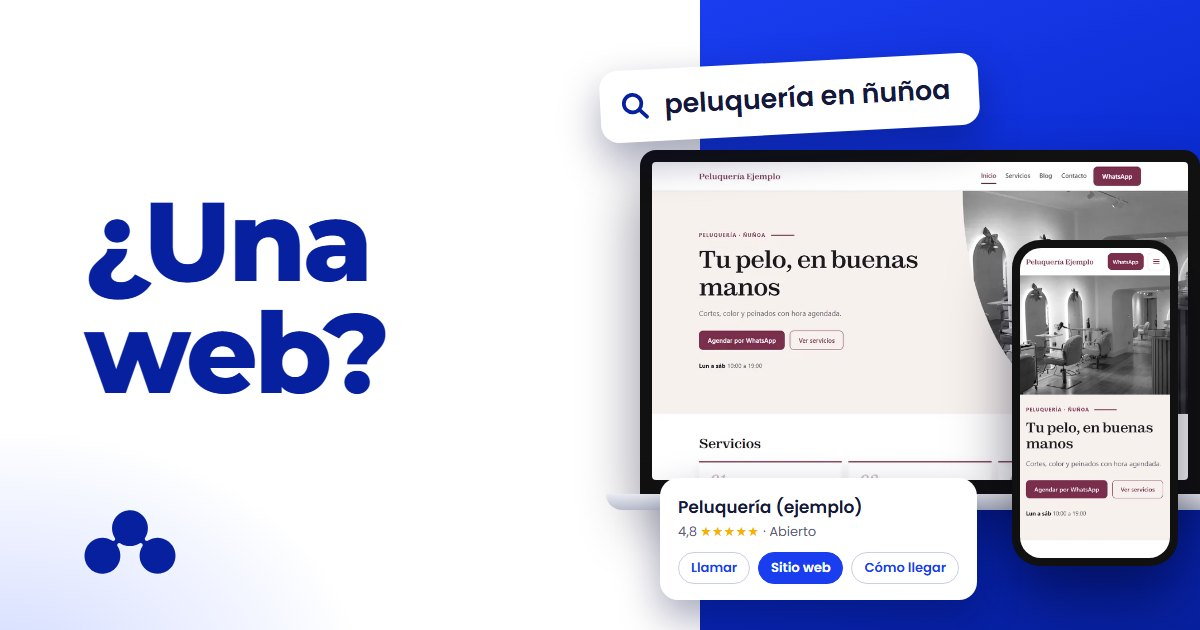
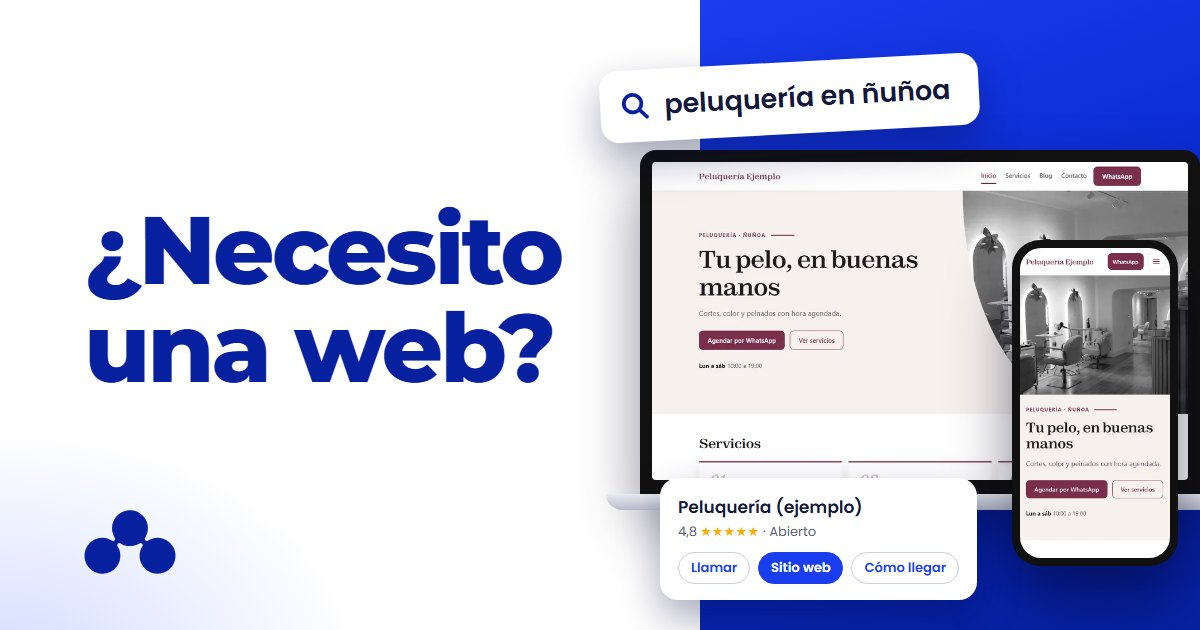
Portada del blog de webs: «¿Necesito una web?»

Changed region(s): [[0.0617, 0.4825, 0.4625, 0.6333], [0.0617, 0.3016, 0.4933, 0.4825]]

diff --git a/blog/articulos/necesito-una-pagina-web-para-mi-negocio.md b/blog/articulos/necesito-una-pagina-web-para-mi-negocio.md
@@ -15,7 +15,7 @@ date: 2026-10-21
 categoria: paginas-web
 servicio: paginas-web
 miniatura: /img/blog/necesito-una-pagina-web-para-mi-negocio.jpg
-miniatura_alt: "Portada: ¿Necesito web?, con la página web de una peluquería de
+miniatura_alt: "Portada: ¿Necesito una web?, con la página web de una peluquería de
   ejemplo en un computador y un celular, la búsqueda «peluquería en ñuñoa» y su
   ficha de Google con el botón Sitio web"
 preguntas:
